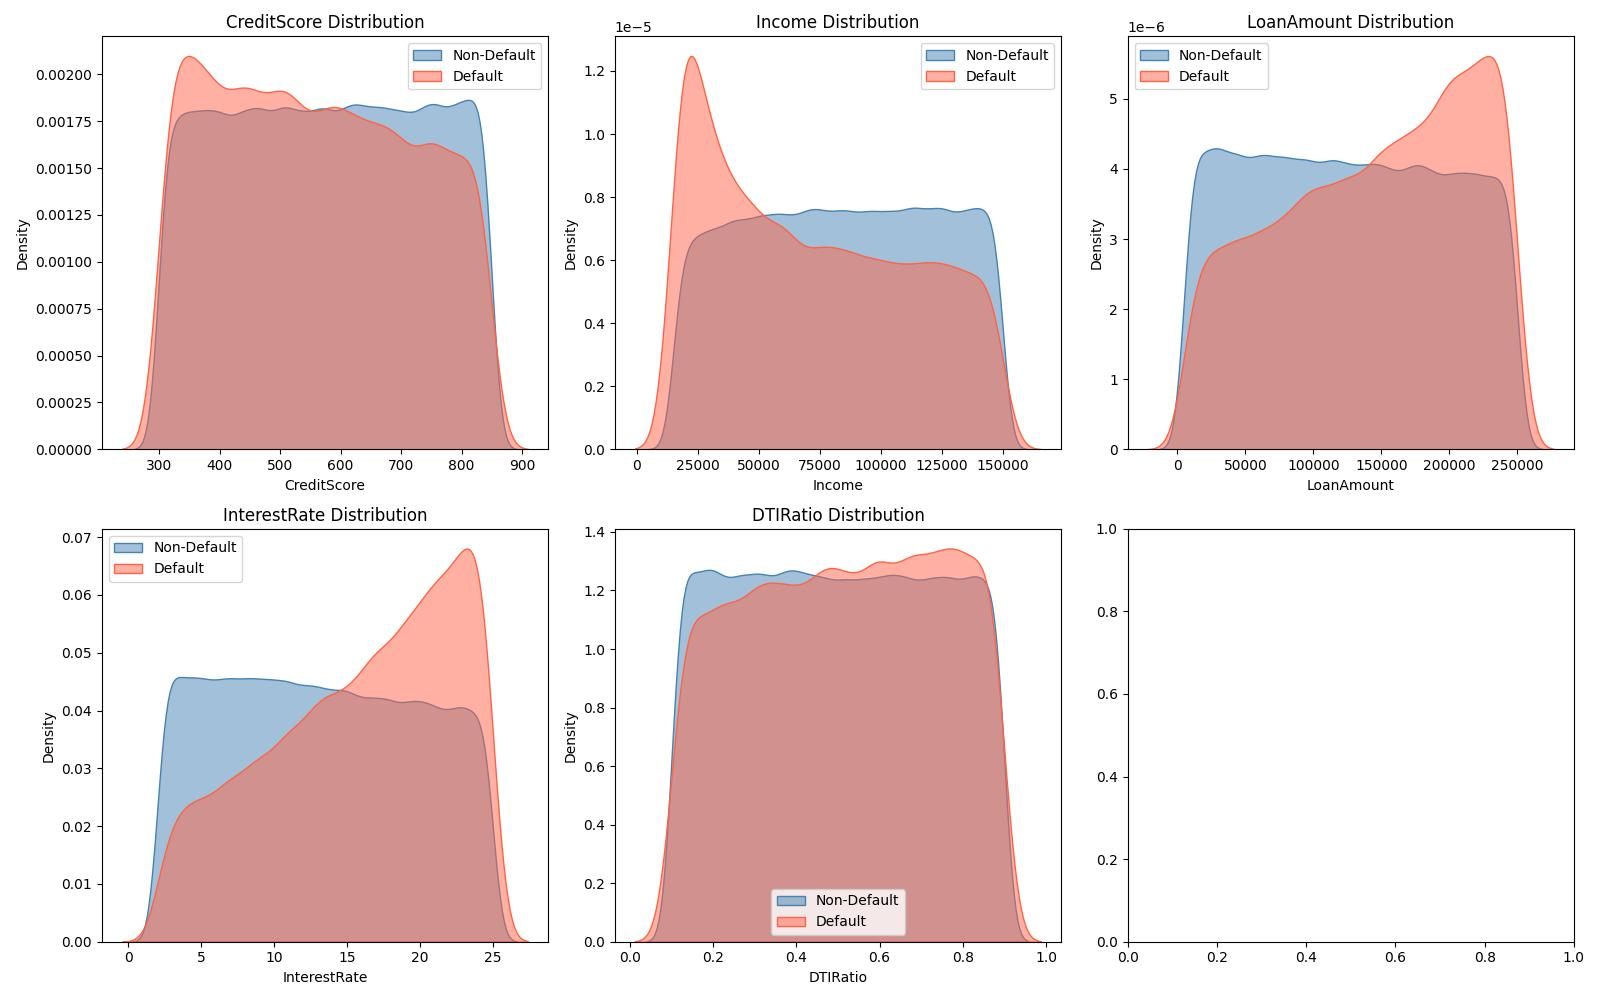
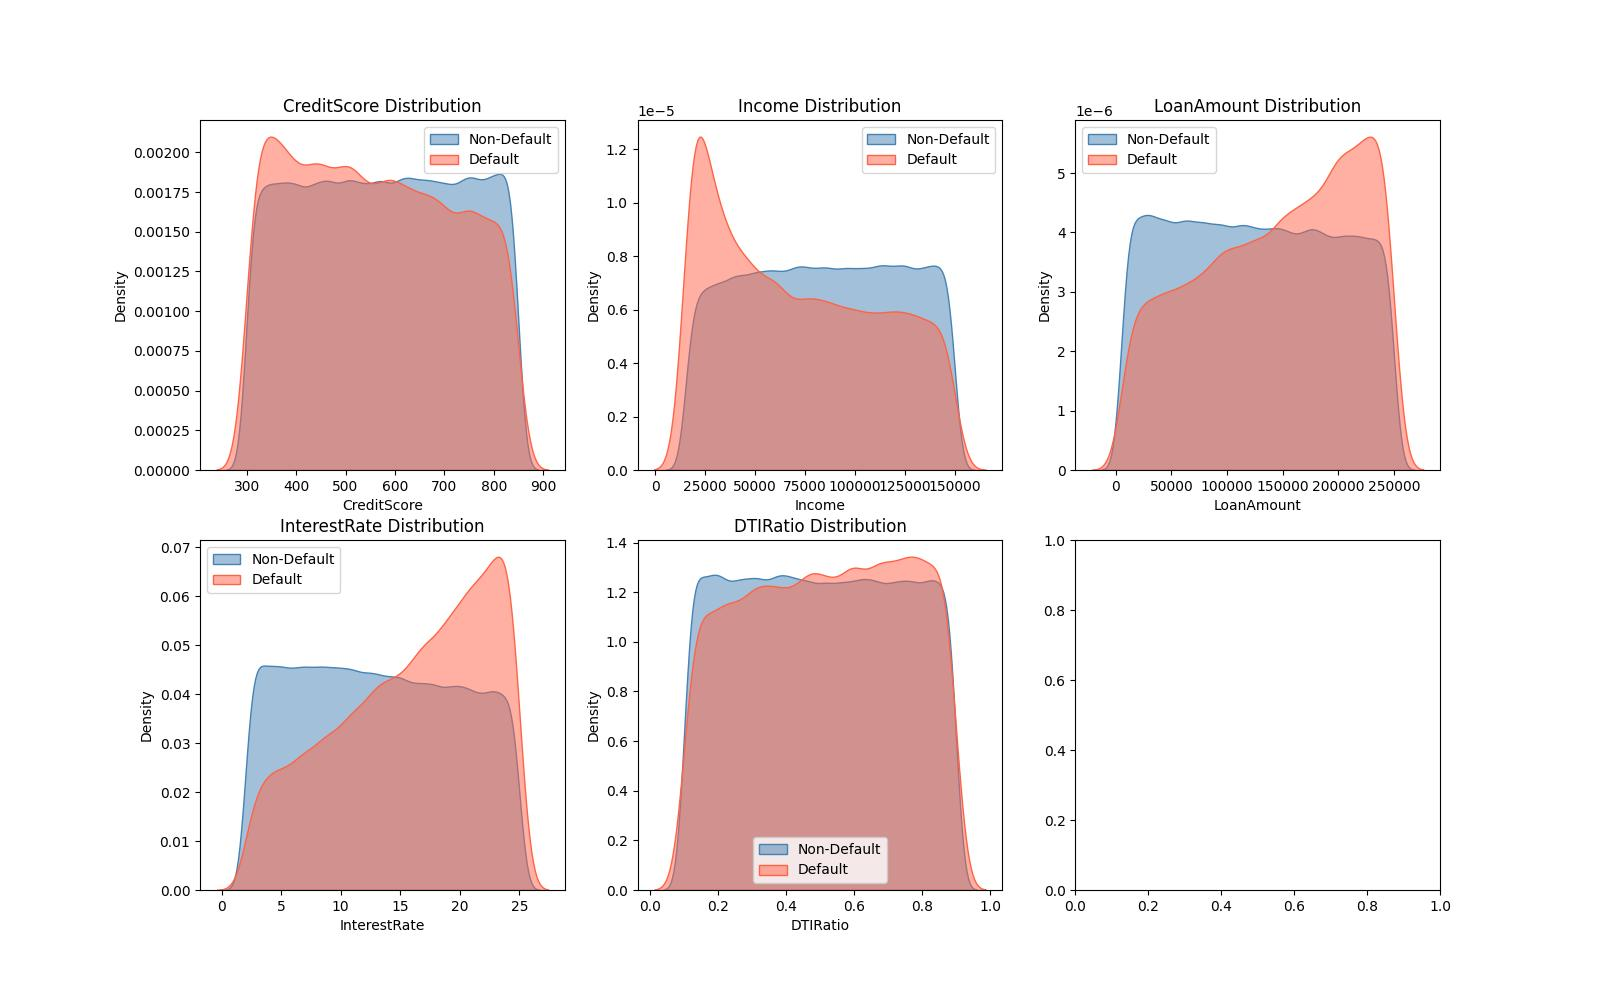
add new models

diff --git a/main.py b/main.py
@@ -4,9 +4,11 @@ import matplotlib.pyplot as plt
 import seaborn as sns
 from sklearn.model_selection import train_test_split
 from sklearn.preprocessing import LabelEncoder, MinMaxScaler
-from sklearn.pipeline import make_pipeline
+# from sklearn.pipeline import make_pipeline
 from sklearn.linear_model import LogisticRegression
-from sklearn.metrics import confusion_matrix, ConfusionMatrixDisplay, accuracy_score, classification_report
+from sklearn.ensemble import RandomForestClassifier, GradientBoostingClassifier
+from xgboost import XGBClassifier
+from sklearn.metrics import confusion_matrix, accuracy_score, classification_report, precision_score, recall_score, f1_score
 from imblearn.over_sampling import SMOTE
 
 
@@ -27,7 +29,8 @@ class LoanDefaultPrediction:
         print(df.isnull())
 
         # value counts for default vs non-default
-        distributions = df["Default"].value_counts(normalize=True)
+        distributions = df["Default"].value_counts()
+        print(f"\nCounts: {distributions}")
         percentages = distributions * 100
         print(f"\nDistribution of Default column: {percentages}")
 
@@ -38,7 +41,6 @@ class LoanDefaultPrediction:
         plt.figure(figsize=(7, 5))
         sns.countplot(df, x="Default")
         plt.title("Default vs. Non-Default")
-        # plt.show()
         plt.savefig("./viz/Target Class Distribution.jpg")
 
         # 3rd chart: distribution side by side
@@ -50,7 +52,6 @@ class LoanDefaultPrediction:
             axes[i].set_title(f"{feature} by Default Status")
 
         plt.tight_layout()
-        # plt.show()
         plt.savefig("./viz/Feature by Default.jpg")
 
         # check mean of features for each class
@@ -80,8 +81,6 @@ class LoanDefaultPrediction:
             axes[i].set_title(f"{feature} Distribution")
             axes[i].legend()
 
-        plt.tight_layout()
-        # plt.show()
         plt.savefig("./viz/KDEplot.jpg")
 
     def prepare_data(self, df: pd.DataFrame):
@@ -127,15 +126,25 @@ class LoanDefaultPrediction:
 
         return X_train, X_test, y_train, y_test
     
-    def train_model(self, X_train, y_train, X_test):
-        # create pipeline
-        lr = LogisticRegression()
-
-        lr.fit(X_train, y_train)
-
-        predictions = lr.predict(X_test)
-
-        return predictions
+    def train_and_evaluate_model(self, model, X_train, y_train, X_test, y_test, model_name):
+        """Train any model and return evaluation metrics"""
+        model.fit(X_train, y_train)
+        y_pred_proba = model.predict_proba(X_test)[:, 1]
+        
+        results = {}
+        for threshold in [0.3, 0.5, 0.7]:
+            y_pred = (y_pred_proba >= threshold).astype(int)
+            precision = precision_score(y_test, y_pred, pos_label=1)
+            recall = recall_score(y_test, y_pred, pos_label=1)
+            f1 = f1_score(y_test, y_pred, pos_label=1)
+            results[threshold] = {"precision": precision, "recall": recall, "f1": f1}
+            feature_importance = pd.DataFrame({
+                'feature': X_train.columns,
+                'importance': abs(model.coef_[0])
+            }).sort_values('importance', ascending=False)
+            print(feature_importance)
+        
+        return results
 
     def evaluate_model(self, preds, y_test):
         matrix = confusion_matrix(y_test, preds)
@@ -159,11 +168,24 @@ if __name__ == "__main__":
     print("\nX_train: \n", X_train[5:], "\nyTrain\n", y_train[5:])
     
     # modeling and evaluation
-    predictions = pipeline.train_model(X_train, y_train, X_test)
+    models = {
+        "Logistic Regression": LogisticRegression(),
+        "Random Forest": RandomForestClassifier(n_estimators=100, class_weight='balanced'),
+        "Gradient Boosting": GradientBoostingClassifier(),
+        "XGBoost": XGBClassifier(n_estimators=2, max_depth=2, learning_rate=1, objective='binary:logistic')
+    }
 
-    matrix, acc_results, class_results = pipeline.evaluate_model(predictions, y_test)
-    disp = ConfusionMatrixDisplay(matrix)
-    print("\n", disp.plot())
-    plt.savefig("./viz/Confusion Matrix")
+    comparison = {}
+    for model_name, model in models.items():
+        print(f"\n{'='*50}")
+        print(f"Training {model_name}...")
+        results = pipeline.train_and_evaluate_model(model, X_train, y_train, X_test, y_test, model_name)
+        comparison[model_name] = results
+        print(results)
 
-    print("\nResults: \n Accuracy: ", acc_results, "\n", class_results)
+    # matrix, acc_results, class_results = pipeline.evaluate_model(predictions, y_test)
+    # disp = ConfusionMatrixDisplay(matrix)
+    # disp.plot()
+    # plt.savefig("./viz/Confusion Matrix")
+
+    # print("\nResults: \n Accuracy: ", acc_results, "\n", class_results)
